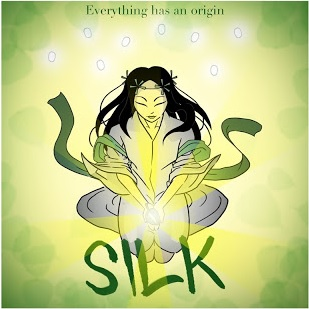
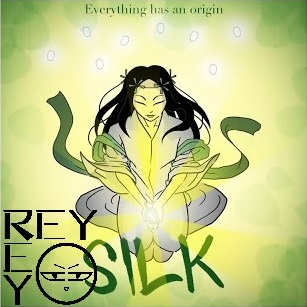
20181120 Add watermarks

diff --git a/Animation.html b/Animation.html
@@ -12,29 +12,89 @@
   <TR><TD colspan="3"><p class="header1Text">ANIMATION</p></TD></TR>
   <TR><TD colspan="3" style="padding-top: 0px;"><HR/></TD></TR>
   <TR>
-   <TD><div class="picContainer" style="background-size: 533px 300px; background-image:url('images/Animation/Final-Enenra.gif');"></div></TD>
-   <TD><div id="caravanBackground"><div id="caravanAnimation"></div></div></TD>
-   <TD><div class="picContainer" style="background-size: 450px 300px; background-image:url('images/Competition/LDL-Maori-God-Tawhirimatea-Final.gif');"></div></TD>
+   <TD>
+    <div class="picContainer" style="background-size: 533px 300px; background-image:url('images/Animation/Final-Enenra.gif');">
+     <div class="picContainer" style="opacity: 0.5; background-size: 75px 75px; background-position: right top; background-image:url('images/ReyRey LOGO white.png');"></div>
+    </div>
+   </TD>
+   <TD>
+    <div id="caravanBackground">
+     <div class="picContainer" style="background-size: 75px 75px; background-position: left bottom; background-image:url('images/ReyRey LOGO.png');">
+      <div id="caravanAnimation"></div>
+     </div>
+    </div>
+   </TD>
+   <TD>
+    <div class="picContainer" style="background-size: 450px 300px; background-image:url('images/Competition/LDL-Maori-God-Tawhirimatea-Final.gif');"></div>
+   </TD>
   </TR>
   <TR>
-   <TD><div class="picContainer" style="background-size: 533px 300px; background-image:url('images/Animation/Covered-Girl.gif');"></div></TD>
-   <TD><div class="picContainer" style="background-size: 533px 300px; background-image:url('images/Animation/girl-in-trouble.gif');"></div></TD>
-   <TD><div class="picContainer" style="background-size: 533px 300px; background-image:url('images/Animation/girl-writing.gif');"></div></TD>
+   <TD>
+    <div class="picContainer" style="background-size: 533px 300px; background-image:url('images/Animation/Covered-Girl.gif');">
+     <div class="picContainer" style="opacity: 0.5; background-size: 75px 75px; background-position: center bottom; background-image:url('images/ReyRey LOGO.png');"></div>
+    </div>
+   </TD>
+   <TD>
+    <div class="picContainer" style="background-size: 533px 300px; background-image:url('images/Animation/girl-in-trouble.gif');">
+     <div class="picContainer" style="opacity: 0.5; background-size: 75px 75px; background-position: left bottom; background-image:url('images/ReyRey LOGO white.png');"></div>
+    </div>
+   </TD>
+   <TD>
+    <div class="picContainer" style="background-size: 533px 300px; background-image:url('images/Animation/girl-writing.gif');">
+     <div class="picContainer" style="opacity: 0.5; background-size: 75px 75px; background-position: center center; background-image:url('images/ReyRey LOGO white.png');"></div>
+    </div>
+   </TD>
   </TR>
   <TR>
-   <TD><div class="picContainer" style="background-size: 350px 300px; background-image:url('images/Animation/Tiny-Face-Man-Final.gif');"></div></TD>
-   <TD><div class="picContainer" style="background-position:left center; background-color: black; background-size: 156px 300px; background-image:url('images/Animation/Infernal-Fallen-Angel-test.gif');"></div></TD>
-   <TD><div class="picContainer" style="background-size: 533px 300px; background-image:url('images/Animation/Skull-close-up-2.gif');"></div></TD>
+   <TD>
+    <div class="picContainer" style="background-size: 350px 300px; background-image:url('images/Animation/Tiny-Face-Man-Final.gif');">
+     <div class="picContainer" style="opacity: 0.5; background-size: 75px 75px; background-position: center center; background-image:url('images/ReyRey LOGO white.png');"></div>
+    </div>
+   </TD>
+   <TD>
+    <div class="picContainer" style="background-position:left center; background-color: black; background-size: 156px 300px; background-image:url('images/Animation/Infernal-Fallen-Angel-test.gif');">
+     <div class="picContainer" style="opacity: 0.5; background-size: 75px 75px; background-position: left bottom; background-image:url('images/ReyRey LOGO white.png');"></div>
+    </div>
+   </TD>
+   <TD>
+    <div class="picContainer" style="background-size: 533px 300px; background-image:url('images/Animation/Skull-close-up-2.gif');">
+     <div class="picContainer" style="opacity: 0.5; background-size: 75px 75px; background-position: center center; background-image:url('images/ReyRey LOGO white.png');"></div>
+    </div>
+   </TD>
   </TR>
   <TR>
-   <TD><div class="picContainer" style="background-size: 533px 300px; background-image:url('images/Animation/4th-transformation.gif');"></div></TD>
-   <TD><div class="picContainer" style="background-size: 533px 300px; background-image:url('images/Animation/orge-hero.gif');"></div></TD>
-   <TD><div class="picContainer" style="background-size: 533px 300px; background-image:url('images/Animation/7th-Guy-shot-in-face.gif');"></div></TD>
+   <TD>
+    <div class="picContainer" style="background-size: 533px 300px; background-image:url('images/Animation/4th-transformation.gif');">
+     <div class="picContainer" style="opacity: 0.5; background-size: 75px 75px; background-position: center center; background-image:url('images/ReyRey LOGO.png');"></div>
+    </div>
+   </TD>
+   <TD>
+    <div class="picContainer" style="background-size: 533px 300px; background-image:url('images/Animation/orge-hero.gif');">
+     <div class="picContainer" style="opacity: 0.5; background-size: 75px 75px; background-position: left bottom; background-image:url('images/ReyRey LOGO white.png');"></div>
+    </div>
+   </TD>
+   <TD>
+    <div class="picContainer" style="background-size: 533px 300px; background-image:url('images/Animation/7th-Guy-shot-in-face.gif');">
+     <div class="picContainer" style="opacity: 0.5; background-size: 75px 75px; background-position: right top; background-image:url('images/ReyRey LOGO white.png');"></div>
+    </div>
+   </TD>
   </TR>
   <TR>
-   <TD><div class="picContainer" style="background-size: 533px 300px; background-image:url('images/Animation/G-Mouse-1st-scene-3.gif');"></div></TD>
-   <TD><div class="picContainer" style="background-size: 533px 300px; background-image:url('images/Animation/6th-Transforms.gif');"></div></TD>
-   <TD><div class="picContainer" style="background-size: 533px 300px; background-image:url('images/Animation/Test-Flash-Final.gif');"></div></TD>
+   <TD>
+    <div class="picContainer" style="background-size: 533px 300px; background-image:url('images/Animation/G-Mouse-1st-scene-3.gif');">
+     <div class="picContainer" style="opacity: 0.5; background-size: 75px 75px; background-position: left bottom; background-image:url('images/ReyRey LOGO.png');"></div>
+    </div>
+   </TD>
+   <TD>
+    <div class="picContainer" style="background-size: 533px 300px; background-image:url('images/Animation/6th-Transforms.gif');">
+     <div class="picContainer" style="opacity: 0.5; background-size: 75px 75px; background-position: right bottom; background-image:url('images/ReyRey LOGO.png');"></div>
+    </div>
+   </TD>
+   <TD>
+    <div class="picContainer" style="background-size: 533px 300px; background-image:url('images/Animation/Test-Flash-Final.gif');">
+     <div class="picContainer" style="opacity: 0.5; background-size: 75px 75px; background-position: right top; background-image:url('images/ReyRey LOGO.png');"></div>
+    </div>
+   </TD>
   </TR>
  </TABLE>
 </BODY>

diff --git a/PictureMenu.html b/PictureMenu.html
@@ -10,8 +10,10 @@
   <TR>
    <TD>
     <div class="picContainer" style="background-size: 533px 300px; background-image:url('images/Animation/girl-in-trouble.gif');">
-     <div class="picOverlay" onmousedown="newContent('Animation.html');">
-      <div class="picText">ANIMATION</div>
+     <div class="picContainer" style="opacity: 0.5; background-size: 75px 75px; background-position: left bottom; background-image:url('images/ReyRey LOGO white.png');">
+      <div class="picOverlay" onmousedown="newContent('Animation.html');">
+       <div class="picText">ANIMATION</div>
+      </div>
      </div>
     </div>
    </TD>
@@ -24,8 +26,10 @@
    </TD>
    <TD>
     <div class="picContainer" style="background-size: 533px 300px; background-position: left middle; background-image:url('images/Animation/G-Mouse-1st-scene-3.gif');">
-     <div class="picOverlay" onmousedown="newContent('Showreels.html');">
-      <div class="picText">SHOWREELS</div>
+     <div class="picContainer" style="opacity: 0.5; background-size: 75px 75px; background-position: left bottom; background-image:url('images/ReyRey LOGO.png');">
+      <div class="picOverlay" onmousedown="newContent('Showreels.html');">
+       <div class="picText">SHOWREELS</div>
+      </div>
      </div>
     </div>
    </TD>
@@ -40,15 +44,19 @@
    </TD>
    <TD>
     <div class="picContainer" style="background-size: 848px 600px; background-position: center top; background-image:url('images/CharacterDesign/SPIN-AROUND!.gif');">
+     <div class="picContainer" style="opacity: 0.5; background-size: 128px 128px; background-position: center 236px; background-image:url('images/ReyRey LOGO.png');">
      <div class="picOverlay" onmousedown="newContent('CharacterDesign.html');">
       <div class="picText">CHARACTER DESIGN</div>
+     </div>
      </div>
     </div>
    </TD>
    <TD>
     <div class="picContainer" style="background-position:left center; background-color: black; background-size: 156px 300px; background-image:url('images/Animation/Infernal-Fallen-Angel-test.gif');">
-     <div class="picOverlay" onmousedown="parent.newWebPage('http://r-curley259573.blogspot.com');">
-      <div class="picText">BLOG</div>
+     <div class="picContainer" style="opacity: 0.5; background-size: 75px 75px; background-position: left bottom; background-image:url('images/ReyRey LOGO white.png');">
+      <div class="picOverlay" onmousedown="parent.newWebPage('http://r-curley259573.blogspot.com');">
+       <div class="picText">BLOG</div>
+      </div>
      </div>
     </div>
    </TD>

diff --git a/CharacterDesign.html b/CharacterDesign.html
@@ -22,12 +22,20 @@
    <TD><div class="picContainer" style="height:250; background-size: 350px 247px; background-image:url('images/CharacterDesign/Bar Characters Background 1 small.jpg');"></div></TD>
   </TR>  <TR>
    <TD><div class="picContainer" style="background-image:url('images/CharacterDesign/Hunter the Slothman Small.jpg');"></div></TD>
-   <TD><div class="picContainer" style="background-size: 495px 350px; background-position: center top; background-image:url('images/CharacterDesign/SPIN-AROUND!.gif');"></div></TD>
+   <TD>
+    <div class="picContainer" style="background-size: 495px 350px; background-position: center top; background-image:url('images/CharacterDesign/SPIN-AROUND!.gif');">
+     <div class="picContainer" style="opacity: 0.5; background-size: 75px 75px; background-position: center 137px; background-image:url('images/ReyRey LOGO.png');">
+    </div>
+   </TD>
    <TD><div class="picContainer" style="background-image:url('images/CharacterDesign/Kai the Slugman.jpg');"></div></TD>
   </TR>
   <TR>
    <TD><div class="picContainer" style="background-size: 350px 240px; background-image:url('images/CharacterDesign/design2.png');"></div></TD>
-   <TD><div class="picContainer" style="background-image:url('images/CharacterDesign/Gangster-Mouse.gif');"></div></TD>
+   <TD>
+    <div class="picContainer" style="background-image:url('images/CharacterDesign/Gangster-Mouse.gif');">
+     <div class="picContainer" style="opacity: 0.5; background-size: 75px 75px; background-position: center center; background-image:url('images/ReyRey LOGO.png');">
+    </div>
+    </TD>
    <TD><div class="picContainer" style="background-size: 350px 240px; background-image:url('images/CharacterDesign/design3.png');"></div></TD>
   </TR>
   <TR>

diff --git a/Illustration.html b/Illustration.html
@@ -10,7 +10,11 @@
   <TR><TD colspan="3"><p class="header1Text">ILLUSTRATION</p></TD></TR>
   <TR><TD colspan="3" style="padding-top: 0px;"><HR/></TD></TR>
   <TR>
-   <TD><div class="picContainer" style="width:400px; background-size: 400px 232px; background-image:url('images/Illustration/RavenGirlSmall.jpg');"></div></TD>
+   <TD>
+    <div class="picContainer" style="width:400px; background-size: 400px 232px; background-image:url('images/Illustration/RavenGirlSmall.jpg');">
+     <div class="picContainer" style="width:380px; opacity: 0.7; background-position: right bottom; background-image:url('images/Illustration/RavenGirlPhoto.jpg');"></div>
+    </div>
+   </TD>
    <TD><div class="picContainer" style="width:250px; background-size: 247px 350px; background-image:url('images/Illustration/Space Neon.jpg');"></div></TD>
    <TD><div class="picContainer" style="width:400px; background-size: 400px 212px; background-image:url('images/Illustration/G MOUSE 4 Small.jpg');"></div></TD>
   </TR>
@@ -18,7 +22,7 @@
  <TABLE>
   <TR>
    <TD><div class="picContainer" style="background-size: 350px 350px; background-image:url('images/Illustration/SILK covers 2.jpg');"></div></TD>
-   <TD><div class="picContainer" style="background-size: 623px 350px; background-image:url('images/Illustration/GirlSmall.jpg');"></div></TD>
+   <TD><div class="picContainer" style="background-size: 350px 350px; background-image:url('images/Illustration/my one piece.jpg');"></div></TD>
    <TD><div class="picContainer" style="background-size: 350px 350px; background-image:url('images/Illustration/Silk Road Cover Small.jpg');"></div></TD>
   </TR>
  </TABLE>
